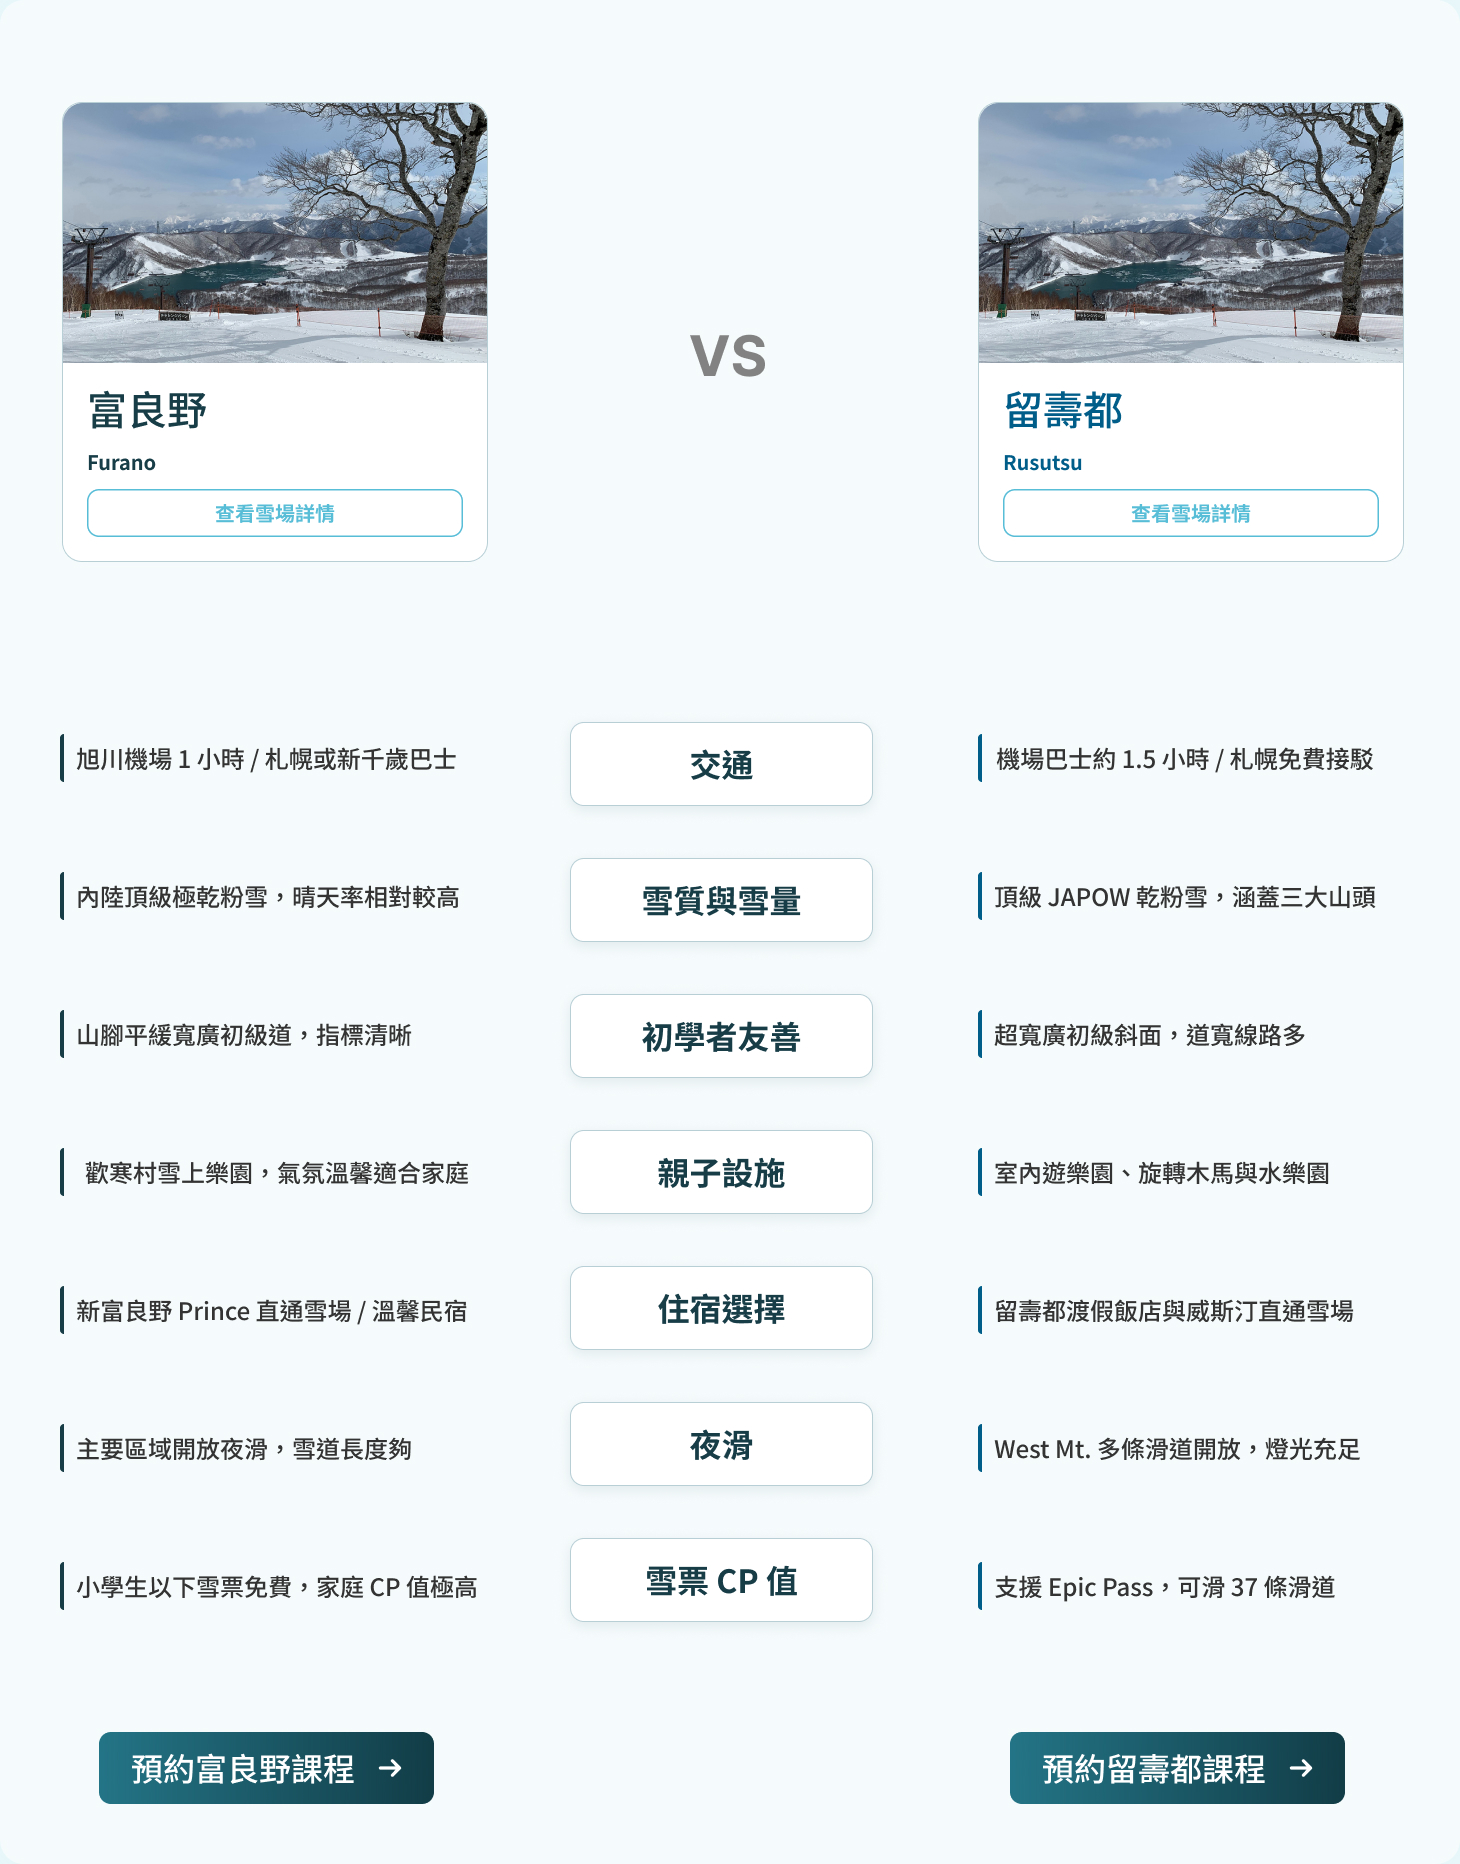
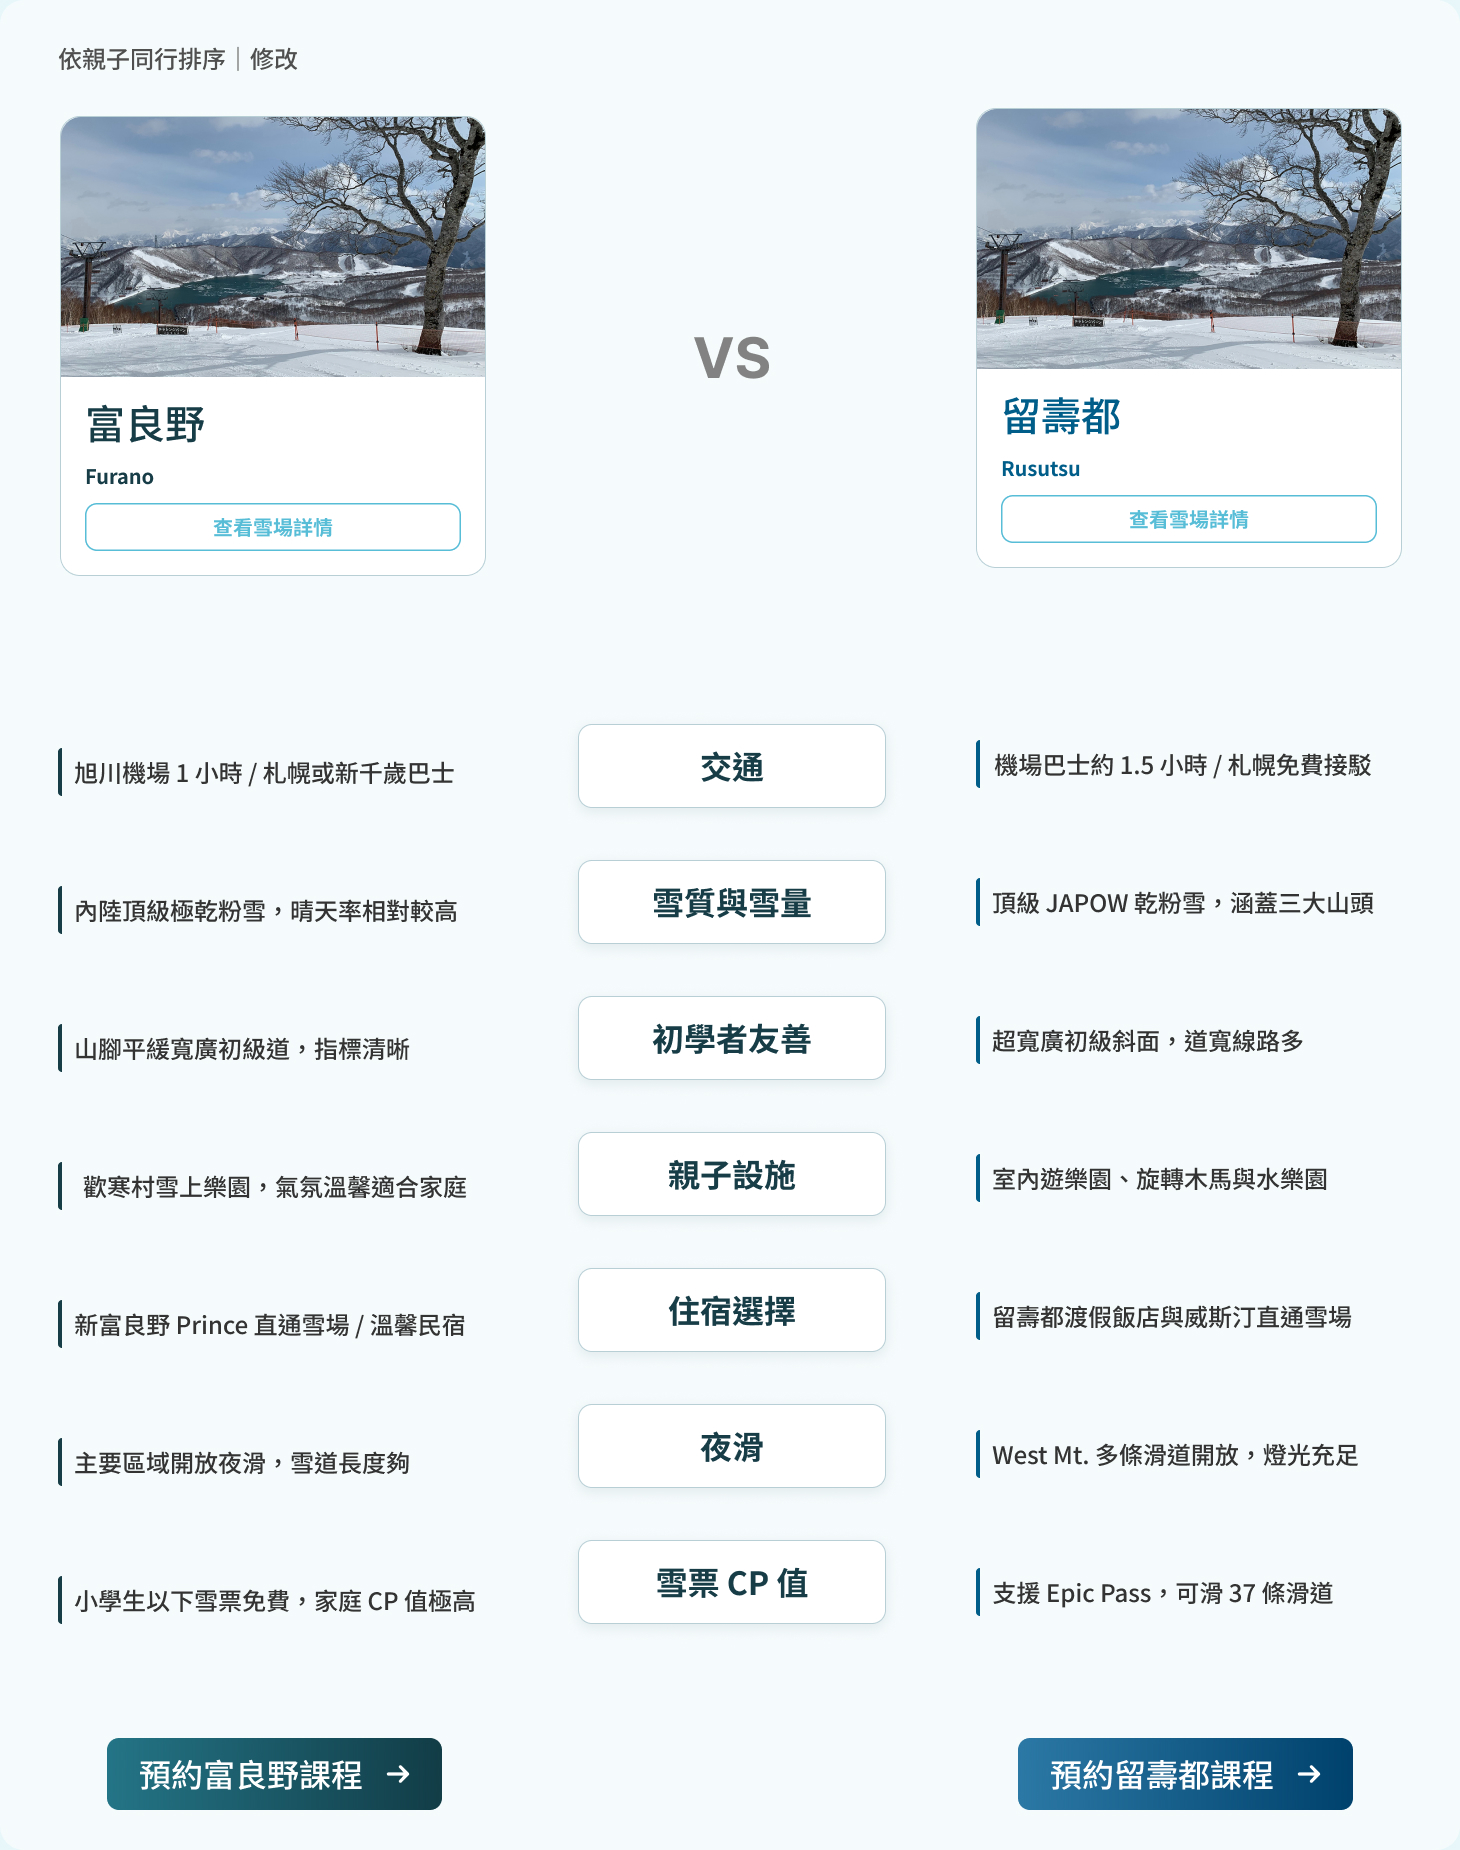
完善目的導向資訊排序

diff --git a/src/data/content.js b/src/data/content.js
@@ -22,7 +22,7 @@ export const deliverables = {
       items: [
         { name: '原站易用性檢視', meta: 'Nielsen 十大原則 ×2 輪 ＋ n=1 使用者測試' },
         { name: '競品走查', meta: '2 個直接競品 × 新手預約旅程 6 階段' },
-        { name: 'Persona 與情境分群', meta: '1 個主要 Persona ＋ 5 類使用情境' },
+        { name: 'Persona 與目的情境', meta: '1 個主要 Persona ＋ 4 個目的情境' },
         { name: '顧客旅程地圖', meta: '6 階段 × 行為／情緒／痛點／接觸點／機會點' },
       ],
     },
@@ -533,35 +533,28 @@ export const sections = [
           { title: '可確認', desc: '在離站前理解條件、狀態與下一步' },
         ],
         segments: {
-          label: '情境分群｜同一個 Persona，目的不同，資訊排序也應不同',
-          note: '單純用 Family／Solo／Pro 太簡略；入口應先問「這次滑雪的主要目的是什麼？」',
-          converged:
-            '設計收斂｜研究列出的五類情境，在首頁收斂為四個意圖入口：新手入門、親子同行、技術提升、休閒度假。',
+          label: '目的情境｜四個目的，資訊排序也應不同',
+          note: '首頁直接詢問「這次滑雪的主要目的是什麼？」其中新手入門、親子同行與休閒度假優先服務主要 Persona；技術提升則保留給已有滑雪經驗的次要使用者。',
           items: [
             {
-              tag: 'Solo｜學習型',
-              goal: '學會／提升技術',
-              logic: '先推薦教練配對，再比較雪場。',
+              tag: '新手入門',
+              goal: '第一次學會安全滑行',
+              logic: '先解釋程度與開課條件，再推薦初學雪場與教練。',
             },
             {
-              tag: 'Solo｜休閒型',
-              goal: '放鬆玩雪／拍照',
-              logic: '先推薦低門檻雪場與清楚的一日成本。',
-            },
-            {
-              tag: 'Family｜親子家庭',
+              tag: '親子同行',
               goal: '家人度假、照顧小孩',
               logic: '高亮親子設施與限制。',
             },
             {
-              tag: 'Pro｜進階挑戰型',
-              goal: '高難度地形／粉雪',
-              logic: '依技術與地形匹配排序，減少新手資訊干擾。',
+              tag: '技術提升',
+              goal: '精進技巧／挑戰合適地形',
+              logic: '依程度、教練專長與地形匹配排序。',
             },
             {
-              tag: 'Group｜團體組織者',
-              goal: '團體／企業活動',
-              logic: '團體方案與教練配對優先，清楚揭露組合限制。',
+              tag: '休閒度假',
+              goal: '放鬆玩雪／拍照',
+              logic: '先推薦低門檻雪場與清楚的一日成本。',
             },
           ],
         },
@@ -609,6 +602,58 @@ export const sections = [
           },
         ],
         conclusion: '每個頁面都回答一個問題，並讓下一步保持可見。',
+      },
+      {
+        type: 'intentStrategy',
+        eyebrow: '跨頁設計策略',
+        heading: '固定架構，依目的調整資訊優先序',
+        lede: '首頁選擇的目的會成為跨頁脈絡。網站不為四種目的各做一套架構，而是在同一套內容中調整預設排序與視覺重點，讓重要資訊提早出現。',
+        stable: {
+          label: '維持一致｜避免迷路',
+          items: [
+            '頁面類型、資訊項目與名稱保持一致',
+            '所有內容仍可查看，不因目的不同而隱藏',
+          ],
+        },
+        adaptive: {
+          label: '動態調整｜降低搜尋成本',
+          items: [
+            '依入口目的調整頁籤與比較項目的預設順序',
+            '同步調整推薦理由與頁面中的資訊強調',
+          ],
+        },
+        priorities: [
+          {
+            intent: '新手入門',
+            priority: '初學者友善、學習門檻、裝備與費用',
+          },
+          {
+            intent: '親子同行',
+            priority: '兒童限制、親子設施與家庭成本',
+          },
+          {
+            intent: '技術提升',
+            priority: '地形難度、雪質與教練專長',
+          },
+          {
+            intent: '休閒度假',
+            priority: '交通、住宿、景觀與夜滑',
+          },
+        ],
+        applications: [
+          {
+            title: '雪場比較表',
+            desc: '比較維度維持一致，但依目的調整項目順序，讓最相關的差異先被看見。',
+          },
+          {
+            title: '單一雪場資訊頁',
+            desc: '頁籤與內容保持完整，但預設順序會依目的調整；新手先看初學資訊，親子則先看兒童限制與設施。',
+          },
+        ],
+        gap: {
+          label: '狀態與修改｜已補上',
+          text: '比較表已在上方顯示「依親子同行排序｜修改」，讓使用者知道目前的排序依據；點擊修改會開啟既有訂課條件 Drawer。相同模式也可沿用到單一雪場頁，說明頁籤目前依哪個目的排序。',
+        },
       },
       {
         type: 'scope',
@@ -748,7 +793,7 @@ export const sections = [
         caption: '結果頁不只給答案，也讓使用者理解與比較',
         lede: '推薦理由、接近選項、教練資訊與雪場比較，被放在同一個決策脈絡裡。',
         src: '/img/page-results.jpg',
-        width: 1272,
+        width: 1275,
         height: 4096,
         alt: '推薦結果頁完整頁面：推薦雪場卡片、只差一項的選擇、也適合你的教練、比較雪場',
         tone: 'light',
@@ -789,15 +834,17 @@ export const sections = [
             label: '逐項對照表',
             src: '/img/compare-table.jpg',
             width: 1460,
-            height: 1864,
-            alt: '比較雪場頁面：富良野 VS 留壽都，依交通、雪質與雪量、初學者友善、親子設施、住宿選擇、夜滑、雪票 CP 值逐項並列，底部為兩個預約課程按鈕',
+            height: 1850,
+            alt: '比較雪場頁面：上方顯示依親子同行排序與修改入口；富良野 VS 留壽都，依交通、雪質與雪量、初學者友善、親子設施、住宿選擇、夜滑、雪票 CP 值逐項並列，底部為兩個預約課程按鈕',
             scroll: 560,
-            note: '捲到底可看到「預約富良野課程／預約留壽都課程」——比較完就能直接行動。',
+            note: '上方明示「依親子同行排序｜修改」；捲到底可直接選擇「預約富良野課程／預約留壽都課程」。',
           },
         ],
         why: {
           label: '為什麼這是決策工具，不只是功能',
           items: [
+            '比較維度維持一致，但項目順序會依入口目的動態調整：新手入門優先顯示初學者友善與學習門檻；親子同行優先顯示親子設施、兒童限制與家庭成本',
+            '表格上方明示目前的排序依據，點擊「修改」會開啟既有訂課條件 Drawer，不讓系統默默改變內容順序',
             '比較維度沿用推薦時的同一套語言，使用者不需要重新學一套標準',
             '對照表底部直接接「預約富良野課程／預約留壽都課程」，比較完就能行動',
             '回應研究發現：受測者原本得離站或反覆捲動才能權衡差異',

diff --git a/src/data/presenterNotes.js b/src/data/presenterNotes.js
@@ -36,14 +36,17 @@ export const presenterNotes = {
     '競品重點是「機會區」不是比功能，逐段走查表指著講就好。',
     '競品圖是質性定位，不是精確量化；只有兩個核心競品做了完整流程走查，其餘用於補充模式。機會不是再做一個資料庫，而是把探索、比較與行動串成路徑。',
     'Persona 引述務必說明是「合成心聲，非逐字訪談」——誠實反而加分。',
-    'Persona 描述的是「缺乏決策經驗」的心智狀態，不等於完全沒滑過雪；核心需求可收成三句：看得懂、能比較、可確認。它是工作假設，不要補沒有證據的人口背景。',
+    'Persona 描述的是第一次規劃完整滑雪行程的決策者；核心需求可收成三句：看得懂、能比較、可確認。它是工作假設，不要補沒有證據的人口背景。',
     '客服信是最有力的一手證據：這個人已經付錢了還是得寫信問。強調「已完成訂課」四個字。',
-    '情境分群 5 類是首頁四個意圖入口的來源，可以先在這裡埋伏筆。',
+    '四個目的不代表都屬於同一個 Persona：新手入門、親子同行與休閒度假優先服務主要 Persona；技術提升是保留給已有經驗者的次要入口。',
     '旅程圖的灰色階段代表跨到其他系統或下一輪範圍，不是單純「還沒做完」：官網負責需求、雪場、教練、初步檔期與交接；即時庫存、付款與訂單由訂課系統承接。',
   ],
   design: [
     '三個設計原則各講一句，重點放在它們對應哪個研究發現。',
     '三個原則的具體意思：保留直接瀏覽、不強迫填問卷；推薦要能同意、比較或不同意；條件不合時提供修改與接近選項，而不是只顯示無結果。',
+    '跨頁策略不要講成「整套資訊架構一直改變」，而是「架構與資訊項目固定，預設排序與強調會延續首頁目的」。這個差異能避免老師追問使用者是否會迷路。',
+    '舉兩個例子就好：新手入門時，比較表與雪場頁籤先呈現初學友善、門檻與裝備；親子同行時，先呈現兒童限制、親子設施與家庭成本。',
+    '比較表已補上「依親子同行排序｜修改」：前半句讓排序依據可見，點擊修改則開啟既有 Drawer。這個模式之後可直接沿用到雪場頁籤，不必再設計另一套修改流程。',
     'MVP 那頁一定要講「邊界不是逃避問題」——這句是防守用的。',
     '流程圖講到訂課條件 Drawer 時補一句：「它位於官網內，是確認、修改與保存條件的介面，不是新增第三個網站；確認後才把資料帶入既有訂課站。」',
     '完成標準是核心任務能從入口走到交接，不是所有頁面都做到同一個高擬真程度。',
@@ -56,6 +59,7 @@ export const presenterNotes = {
     '推薦理由要能被檢查，接近選項則避免死路；教練信任以資格、熟悉雪場與教學資訊建立，不把公開星等當成核心。',
     '手機版交接已涵蓋預設、編輯、調整後與無結果等狀態；無結果不是錯誤頁，而是要說清楚卡在哪個條件、如何恢復。付款、訂單與聯絡教練仍屬後續系統，不要講成已解決。',
     '比較功能是本章亮點：講「像購物車一樣隨時加入」，再示範捲動看逐項對照表。',
+    '比較表不是固定排序：維度仍維持一致以利比較，但會延續首頁選擇的目的調整優先順序。例如新手先看到初學者友善與學習門檻，親子同行先看到親子設施、兒童限制與家庭成本。',
     '原型放最後當總結：先講「剛才拆了三件事，現在連起來走一次」再開始點。',
     '原型示範只走一條路徑：選新手入門 → 看推薦理由 → 加入比較 → 開對照表 → 前往訂課。不要亂點。',
     '原型務必提前載入好放著，不要在台上等它轉圈；真的掛掉就點「在 Figma 開啟」。',

diff --git a/src/components/blocks.jsx b/src/components/blocks.jsx
@@ -654,7 +654,7 @@ function Persona({ block }) {
               {block.segments.converged}
             </p>
           )}
-          <ul className="mt-6 grid gap-4 sm:grid-cols-2 lg:grid-cols-3">
+          <ul className="mt-6 grid gap-4 sm:grid-cols-2">
             {block.segments.items.map((s) => (
               <li key={s.tag} className="rounded-2xl border border-sage p-5">
                 <h5 className="font-bold text-teal-deep">{s.tag}</h5>
@@ -688,6 +688,73 @@ function Principles({ block }) {
         ))}
       </ol>
       <Conclusion dark>{block.conclusion}</Conclusion>
+    </Slab>
+  )
+}
+
+/* ── 04 設計：目的導向的跨頁資訊排序 ───────────────────── */
+function IntentStrategy({ block }) {
+  return (
+    <Slab tone="dark">
+      <Eyebrow dark>{block.eyebrow}</Eyebrow>
+      <h3 className="mt-3 text-2xl font-black leading-tight md:text-3xl">
+        {block.heading}
+      </h3>
+      <p className="mt-3 max-w-prose leading-relaxed text-sage">
+        {block.lede}
+      </p>
+
+      <div className="mt-8 grid gap-4 md:grid-cols-2">
+        {[block.stable, block.adaptive].map((group) => (
+          <div key={group.label} className="rounded-2xl bg-teal-deep/70 p-6">
+            <h4 className="font-bold text-accent">{group.label}</h4>
+            <ul className="mt-3 space-y-2 text-sm leading-relaxed text-sage">
+              {group.items.map((item) => (
+                <li key={item} className="flex gap-2">
+                  <span aria-hidden className="text-accent">
+                    —
+                  </span>
+                  {item}
+                </li>
+              ))}
+            </ul>
+          </div>
+        ))}
+      </div>
+
+      <h4 className="mt-8 text-sm font-bold text-mist">
+        四個目的的預設優先序
+      </h4>
+      <dl className="mt-4 grid gap-3 sm:grid-cols-2">
+        {block.priorities.map((item) => (
+          <div key={item.intent} className="rounded-xl bg-black/25 p-4">
+            <dt className="font-bold text-accent">{item.intent}</dt>
+            <dd className="mt-1 text-sm leading-relaxed text-sage">
+              {item.priority}
+            </dd>
+          </div>
+        ))}
+      </dl>
+
+      <div className="mt-8 grid gap-4 md:grid-cols-2">
+        {block.applications.map((item) => (
+          <div key={item.title} className="border-l-4 border-teal pl-4">
+            <h4 className="font-bold text-mist">{item.title}</h4>
+            <p className="mt-2 text-sm leading-relaxed text-sage">
+              {item.desc}
+            </p>
+          </div>
+        ))}
+      </div>
+
+      <div className="mt-8 rounded-2xl border border-accent/50 bg-black/30 p-6">
+        <span className="text-xs font-bold uppercase tracking-[0.15em] text-accent">
+          {block.gap.label}
+        </span>
+        <p className="mt-3 text-sm leading-relaxed text-mist">
+          {block.gap.text}
+        </p>
+      </div>
     </Slab>
   )
 }
@@ -1351,6 +1418,7 @@ const REGISTRY = {
   competitors: Competitors,
   persona: Persona,
   principles: Principles,
+  intentStrategy: IntentStrategy,
   scope: Scope,
   flow: Flow,
   systemflow: SystemFlow,

diff --git a/src/App.jsx b/src/App.jsx
@@ -50,14 +50,14 @@ export default function App() {
             className="scroll-mt-28 border-t border-sage/60 py-20 md:py-28"
           >
             <div className="section-shell">
-              <div data-reveal className="reveal max-w-prose">
+              <div data-reveal className="reveal">
                 <span className="eyebrow">
                   {section.index} — {section.label}
                 </span>
                 <h2 className="mt-3 text-3xl font-black leading-tight text-ink md:text-5xl">
                   {section.title}
                 </h2>
-                <p className="mt-5 text-base leading-relaxed text-teal-muted md:text-lg">
+                <p className="mt-5 max-w-prose text-base leading-relaxed text-teal-muted md:text-lg">
                   {section.lede}
                 </p>
               </div>
